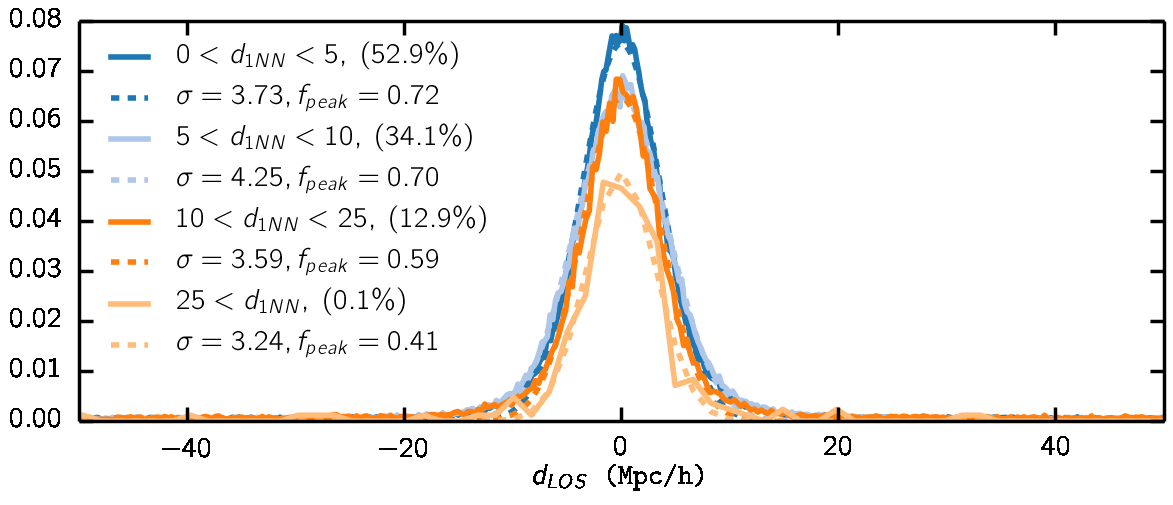
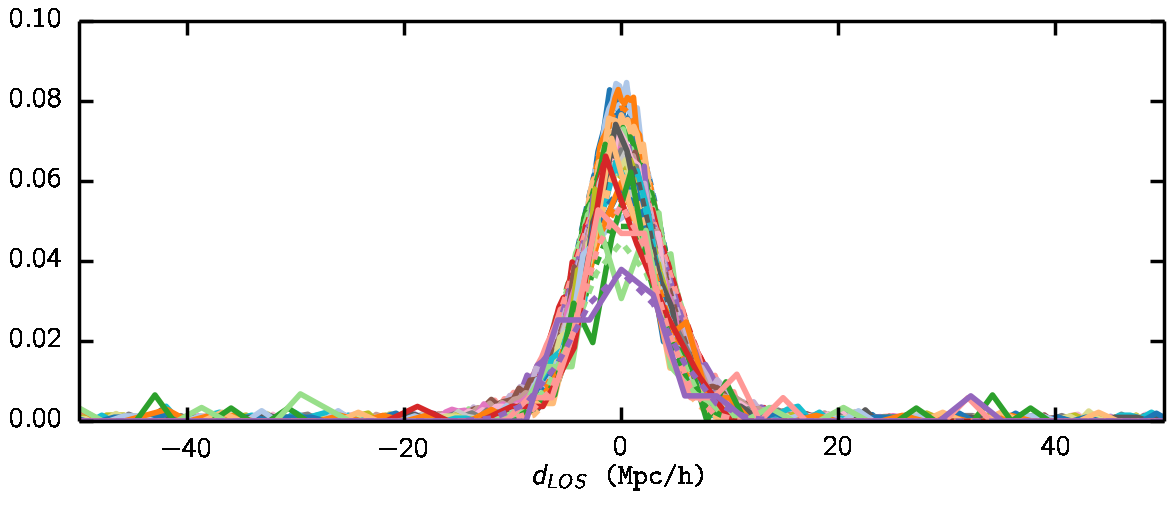
dNN test with different n and various binning

diff --git a/fibcol_dlos.py b/fibcol_dlos.py
@@ -828,9 +828,12 @@ def dlos_env(n=3, **cat_corr):
     fig = plt.figure(1, figsize=(14,5))
     sub = fig.add_subplot(1,1,1)
     
-    print 'dNN, Minimum ', min(combined_dNN), ' Maximum ', max(combined_dNN)
+    print 'd'+str(n)+'NN, Minimum ', min(combined_dNN), ' Maximum ', max(combined_dNN)
     # loop through different dNN measurements 
-    dNN_bins = [ (0, 5), (5, 10), (10, 25), (25) ]
+    istart = np.int(np.floor(min(combined_dNN)))
+    iend = np.int(np.floor(max(combined_dNN)))
+    dNN_bins = [ (i, (i+1)) for i in np.arange(istart, iend) ] 
+    #[ (0, 5), (5, 10), (10, 25), (25) ]
     #[ (5*i, 5*(i+1)) for i in np.arange(0, 11) ] 
     for i_bin, dNN_bin in enumerate(dNN_bins): 
         # dNN bin 
@@ -842,21 +845,23 @@ def dlos_env(n=3, **cat_corr):
             bin_label = ''.join([r'$', str(dNN_bin), ' < d_{', str(n), 'NN}']) 
 
         bin_dlos = combined_dlos[bin_index] 
+        if len(bin_dlos) < 50: 
+            continue
         
         # fraction of total dLOS values 
         bin_perc = np.float( len(bin_dlos) )/np.float( len(combined_dlos) ) * 100.0
 
         dlos_hist, mpc_mid, peak_param  = \
                 dlos_hist_peak_fit(bin_dlos, fit='gauss', peak_range=[-15.0, 15.0])
-        
+
         sub.plot(mpc_mid, dlos_hist, 
-                lw=4, color=pretty_colors[i_bin+1], 
+                lw=4, color=pretty_colors[((i_bin+1) % 20)], 
                 label = bin_label+',\;( '+('%.1f' % bin_perc)+'\%) $') 
     
         fit_label = r'$\sigma ='+('%.2f' % peak_param['sigma'])+\
                 ', f_{peak} = '+('%.2f' % peak_param['fpeak'])+'$'
         sub.plot(mpc_mid, peak_gauss(mpc_mid, [peak_param['amp'], peak_param['sigma']]), 
-                lw=4, ls='--', color=pretty_colors[i_bin+1], label=fit_label)
+                lw=4, ls='--', color=pretty_colors[((i_bin+1) % 20)], label=fit_label)
 
         try:        # save avg_dNN and fpeak values 
             dNN_avg.append( 0.5 * np.float(dNN_bin[0] + dNN_bin[1]) ) 
@@ -870,8 +875,9 @@ def dlos_env(n=3, **cat_corr):
 
     sub.set_xlabel(r"$d_{LOS}$ (Mpc/h)", fontsize=20) 
     sub.set_xlim([-50.0, 50.0])
-    sub.legend(loc='upper left') 
-    
+    if len(dNN_bins) < 5: 
+        sub.legend(loc='upper left') 
+    sub.set_ylim([0.0, 0.1]) 
     fig_file = ''.join(['figure/', 
         'dlos_env_dependence_d', str(n), 'NN_', catalog['name'], '.png']) 
 
@@ -2278,10 +2284,11 @@ def combined_catalog_dlos_fits(catalog, n_mock):
         raise NameError('asdfasdfasdf')  
 
 if __name__=="__main__": 
+
+    cat_corr = {'catalog': {'name': 'nseries'}, 'correction': {'name': 'upweight'}} 
     pool = mp.Pool(processes=5)
     mapfn = pool.map
     
-    cat_corr = {'catalog': {'name': 'nseries'}, 'correction': {'name': 'upweight'}} 
     arglist = [ [i, cat_corr] for i in [1,2,3,4,5,10] ]
     
     mapfn( dlos_env_multiprocess, [arg for arg in arglist])
